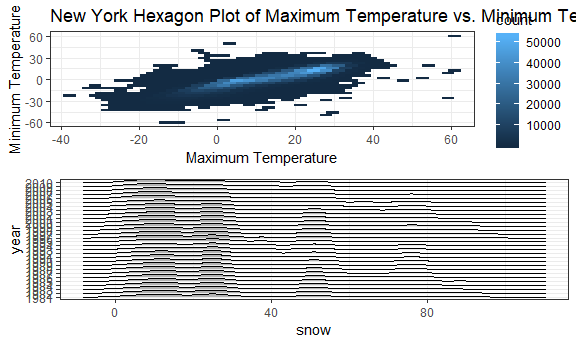
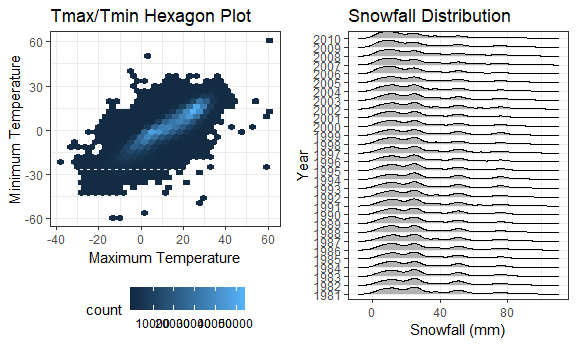
Added annotations to code

diff --git a/p8105_hw3_as5457.md b/p8105_hw3_as5457.md
@@ -10,14 +10,14 @@ Setting global settings for the format of the graphs generated for this homework
 library(tidyverse)
 ```
 
-    ## -- Attaching packages ------------------------------------------------------------------------------ tidyverse 1.2.1 --
+    ## -- Attaching packages --------------------------------------------------------------------------------- tidyverse 1.2.1 --
 
     ## v ggplot2 3.0.0     v purrr   0.2.5
     ## v tibble  1.4.2     v dplyr   0.7.6
     ## v tidyr   0.8.1     v stringr 1.3.1
     ## v readr   1.1.1     v forcats 0.3.0
 
-    ## -- Conflicts --------------------------------------------------------------------------------- tidyverse_conflicts() --
+    ## -- Conflicts ------------------------------------------------------------------------------------ tidyverse_conflicts() --
     ## x dplyr::filter() masks stats::filter()
     ## x dplyr::lag()    masks stats::lag()
 
@@ -237,6 +237,7 @@ The instacart dataset provides information regarding each individual order that 
 *There are 134 aisles.*
 
 ``` r
+#Counting the number of unique aisles using the unique and length function.
 unique_aisle = unique(insta$aisle_id)
 length(unique_aisle)
 ```
@@ -247,8 +248,14 @@ length(unique_aisle)
 
 ``` r
 insta %>%
+
+#Collapsing the aisle variable
   group_by(aisle) %>% 
+  
+#Counting the number of items by each aisle.
   summarize(item_count = n()) %>% 
+  
+#Arranging the output in descending order to find the most items ordered.
   arrange(desc(item_count))
 ```
 
@@ -271,15 +278,21 @@ Make a plot that shows the number of items ordered in each aisle. Order aisles s
 
 ``` r
 insta %>%
+  
+#Collapsing by the aisle and department variables
   group_by(aisle, department) %>% 
+  
+#Counting the number of items by aisle and department.
   summarize(item_count = n()) %>% 
+  
+#Creating a scatterplot
   ggplot(aes(x = aisle, y = item_count, color = department)) + 
   geom_point(aes(size = item_count), alpha = 1) +
   labs (
     title = "Number Of Items Ordered In Each Aisle",
         x = "Aisle Name",
         y = "Number Of Items Ordered"
-  ) + theme(axis.text.x = element_text(angle = 90, hjust = 1))
+  ) + theme(axis.text.x = element_text(angle = 90, hjust = 1), legend.position = "bottom")
 ```
 
 <img src="p8105_hw3_as5457_files/figure-markdown_github/unnamed-chunk-11-1.png" width="90%" />
@@ -288,10 +301,20 @@ Make a table showing the most popular item in each of the aisles “baking ingre
 
 ``` r
 insta %>% 
+  
+#Grouping by the aisle and product name variables.
   group_by(aisle, product_name) %>% 
+  
+#Counting the number of items by aisle and product name. 
   summarize (item_counts = n()) %>% 
+  
+#Creating ranks in descending orders from most popular to least popular.
   mutate(rank = min_rank(desc(item_counts))) %>% 
+  
+#Keeping only the most popular item. 
   filter (rank == 1) %>% 
+  
+#Keeping on the three specified aisles. 
   filter(aisle %in% c("baking ingredients", "dog food care", "packaged vegetables fruits"))
 ```
 
@@ -307,10 +330,20 @@ Make a table showing the mean hour of the day at which Pink Lady Apples and Coff
 
 ``` r
 insta %>% 
+  
+#Grouping by the product name and the day of the week when the product was ordered. 
   group_by(product_name, order_dow) %>% 
+  
+#Calculating the mean hour of the day at which the order was placed. 
   summarize(mean_hour_day = mean(order_hour_of_day)) %>% 
+  
+#Keeping only the two specified items. 
   filter(product_name %in% c("Pink Lady Apples", "Coffee Ice Cream")) %>% 
+  
+#Spreading the table.
   spread(key = "order_dow", value = "mean_hour_day") %>% 
+  
+#Formatting the output as a table.
   knitr::kable()
 ```
 
@@ -325,6 +358,7 @@ Problem 3
 This problem uses the NY NOAA data. DO NOT include this dataset in your local data directory; instead, load the data from the p8105.datasets package (it’s called ny\_noaa).
 
 ``` r
+#Loadin the NY NOAA dataset from the p8105.datasets package and calling it "weather". 
 library(p8105.datasets)
 data("ny_noaa")
 weather = ny_noaa %>% 
@@ -338,9 +372,16 @@ The NY NOAA dataset provides information regarding the weather and precipitation
 *Do some data cleaning. Create separate variables for year, month, and day. Ensure observations for temperature, precipitation, and snowfall are given in reasonable units.*
 
 ``` r
+#Creating a new clean dataset called ny_weather
 ny_weather <- weather %>% 
+  
+#Creating varaibles year, month and day using the date variable. 
   separate(date, into = c("year", "month", "day"), sep = "-") %>%
+  
+#Precipitation was reported as tenth of mm, therefore dividing it by 10. 
   mutate(prcp = prcp / 10) %>% 
+  
+#tmax and tmi=n were reported as tenth of degree, therefore dividing them by 10. 
   mutate(tmax = as.numeric(tmax) / 10) %>% 
   mutate(tmin = as.numeric(tmin)/10)
 ```
@@ -351,6 +392,8 @@ The most common values observed for snowfall are 0 and null. This is because mos
 
 ``` r
 ny_weather %>% 
+
+#Counting the number of snow days and arranging in descending order. 
   count(snow) %>% 
   arrange(desc(n))
 ```
@@ -376,9 +419,17 @@ Observing the collection of box plots below, we can see that in general, the ave
 
 ``` r
 ny_weather %>% 
+  
+#Keeping records only the months of January and July. 
   filter (month %in% c("01", "07")) %>%
+  
+#Grouping by month, station ID and year. 
   group_by(month, id, year) %>% 
+  
+#Calculating the mean of tmax by month, station ID and year. 
   summarize(average_tmax = mean(tmax, na.rm = TRUE)) %>% 
+  
+#Creting boxplot to show avereage tmax in January and July by year. 
   ggplot(aes(x = year, y = average_tmax)) +
   geom_boxplot() +
   facet_grid(~month) +
@@ -399,20 +450,28 @@ tmax vs tmin for full dataset
 =============================
 
 ``` r
+#Creating a hexagonal plot called "hex" which shows the tmax vs tmin for the full dataset. 
 hex = ny_weather %>% 
   ggplot(aes(x = tmax, y = tmin)) +
   geom_hex() +
   labs(
-    title = "New York Hexagon Plot of Maximum Temperature vs. Minimum Temperature",
+    title = "Tmax/Tmin Hexagon Plot",
     x = "Maximum Temperature",
     y = "Minimum Temperature"
-  )
+  ) + theme (legend.position = "bottom")
 
+#Creating a ridge plot that shows the distribution of snowfall values separated by year. 
 snowfall = ny_weather %>% 
   filter(snow > 0 & snow < 100) %>% 
   ggplot(aes(x = snow, y = year)) + 
-  geom_density_ridges(scale = .85)
+  geom_density_ridges(scale = .85) +
+  labs(
+    title = "Snowfall Distribution",
+    x = "Snowfall (mm)",
+    y = "Year"
+  )
 
+#Stitching together the two plots
 library(gridExtra)
 ```
 
@@ -424,7 +483,7 @@ library(gridExtra)
     ##     combine
 
 ``` r
-grid.arrange(hex, snowfall, ncol = 1)
+grid.arrange(hex, snowfall, nrow = 1)
 ```
 
     ## Warning: Removed 1136276 rows containing non-finite values (stat_binhex).
